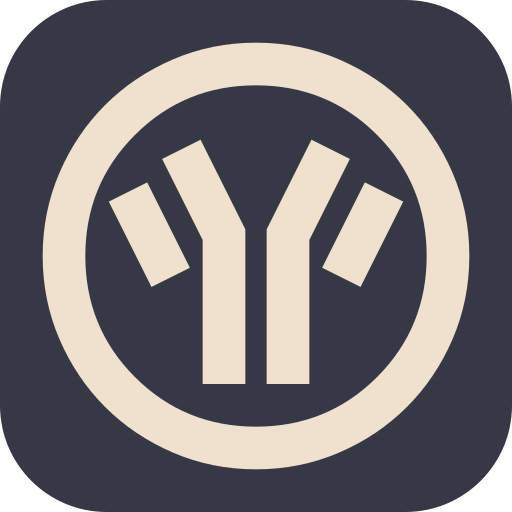
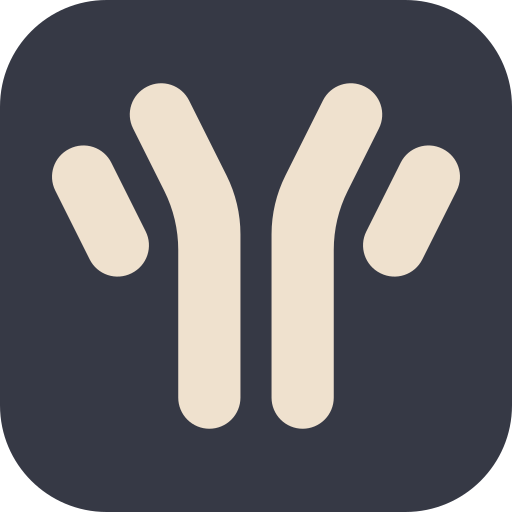
Add Cytogenetics card and update card layout
Introduced a new Cytogenetics card with image and description to index.html. Improved card layout by adjusting flex-row structure, card padding, and image positioning. Updated text for Prep Questions and Cytometry cards for clarity. Added new image asset (cg.png) and updated immunology image.

Changed region(s): [[0.0625, 0.0625, 0.9375, 0.9375], [0.4688, 0.4375, 0.5312, 0.75]]

diff --git a/index.html b/index.html
@@ -68,6 +68,7 @@
           align-items: center;
           justify-content: center;
           width: 100%;
+          position: relative;
         }
         .card {
           position: relative;
@@ -97,7 +98,7 @@
           text-align: center;
           font-weight: bold;
           width: 100%;
-          padding-right: 50px;
+          padding: 0 20px;
         }
         .card-text {
           padding: 0 10px;
@@ -109,6 +110,8 @@
         .card img {
           height: 50px;
           padding: 20px 0 20px 20px;
+          position: absolute;
+          left: 0;
         }
         h2 {
           margin: 20px 20px 5px 20px;
@@ -183,11 +186,11 @@
           <img src="imgs/prep.png" alt="ASCP BOC Prep">
           <div class="card-title">
             <h2>Prep Questions</h2>
-            <h4><span style="opacity: 0.3;">BB | C |</span> H <span style="opacity: 0.3;">| LO | M | MB | UA | BF</span></h4>
+            <h4>Assess Your Readiness</h4>
           </div>
         </div>
         <hr>
-        <p class="card-text">Hematology Questions only at this time | More content area questions coming soon</p>
+        <p class="card-text">Questions to mimic the BOC certification exams covering all content areas below</p>
       </a>
     </div>
 
@@ -231,6 +234,20 @@
   <div class="flex-row">
 
     <div class="card" style="animation-delay: 0.2s;">
+      <a href="https://cytogenetics.mlsascp.com/">
+        <div class="flex-title">
+          <img src="imgs/cg.png" alt="Cytogenetics">
+          <div class="card-title">
+            <h2>Cytogenetics</h2>
+            <h4>CG</h4>
+          </div>
+        </div>
+        <hr>
+        <p class="card-text">Specimen Preparation, Culture, & Harvest | Molecular Cytogenetic Testing | Chromosome Analysis & Imaging | Laboratory Operations</p>
+      </a>
+    </div>
+
+    <div class="card" style="animation-delay: 0.3s;">
       <a href="https://cytometry.mlsascp.com/">
         <div class="flex-title">
           <img src="imgs/cy.png" alt="Cytometry">
@@ -240,11 +257,16 @@
           </div>
         </div>
         <hr>
-        <p class="card-text">Instrumetation | Panel and Experiment Design | Applications | Data</p>
+        <p class="card-text">Instrumetation | Panel & Experiment Design | Applications | Data</p>
       </a>
     </div>
 
-    <div class="card" style="animation-delay: 0.3s;">
+  </div>
+
+  
+  <div class="flex-row">
+
+    <div class="card" style="animation-delay: 0.4s;">
       <a href="https://hematology.mlsascp.com/">
         <div class="flex-title">
           <img src="imgs/he.png" alt="Hematology">
@@ -258,12 +280,7 @@
       </a>
     </div>
 
-  </div>
-
-  
-  <div class="flex-row">
-
-    <div class="card" style="animation-delay: 0.4s;">
+    <div class="card" style="animation-delay: 0.5s;">
       <a href="https://immunology.mlsascp.com/">
         <div class="flex-title">
           <img src="imgs/im.png" alt="Immunology">
@@ -277,7 +294,12 @@
       </a>
     </div>
 
-    <div class="card" style="animation-delay: 0.4s;">
+  </div>
+
+  
+  <div class="flex-row">
+
+    <div class="card" style="animation-delay: 0.6s;">
       <a href="https://labops.mlsascp.com/">
         <div class="flex-title">
           <img src="imgs/lo.png" alt="Laboratory Operations">
@@ -291,12 +313,7 @@
       </a>
     </div>
 
-  </div>
-
-  
-  <div class="flex-row">
-
-    <div class="card" style="animation-delay: 0.5s;">
+    <div class="card" style="animation-delay: 0.7s;">
       <a href="https://microbiology.mlsascp.com/">
         <div class="flex-title">
           <img src="imgs/mi.png" alt="Microbiology">
@@ -310,7 +327,11 @@
       </a>
     </div>
 
-    <div class="card" style="animation-delay: 0.6s;">
+  </div>
+
+  <div class="flex-row">
+
+    <div class="card" style="animation-delay: 0.8s;">
       <a href="https://molecular.mlsascp.com/">
         <div class="flex-title">
           <img src="imgs/mb.png" alt="Molecular">
@@ -324,12 +345,7 @@
       </a>
     </div>
 
-  </div>
-
-  
-  <div class="flex-row">
-
-    <div class="card" style="animation-delay: 0.7s;">
+    <div class="card" style="animation-delay: 0.9s;">
       <a href="https://uabf.mlsascp.com/">
         <div class="flex-title">
         <img src="imgs/uabf.png" alt="Urinalysis & Body Fluids">
